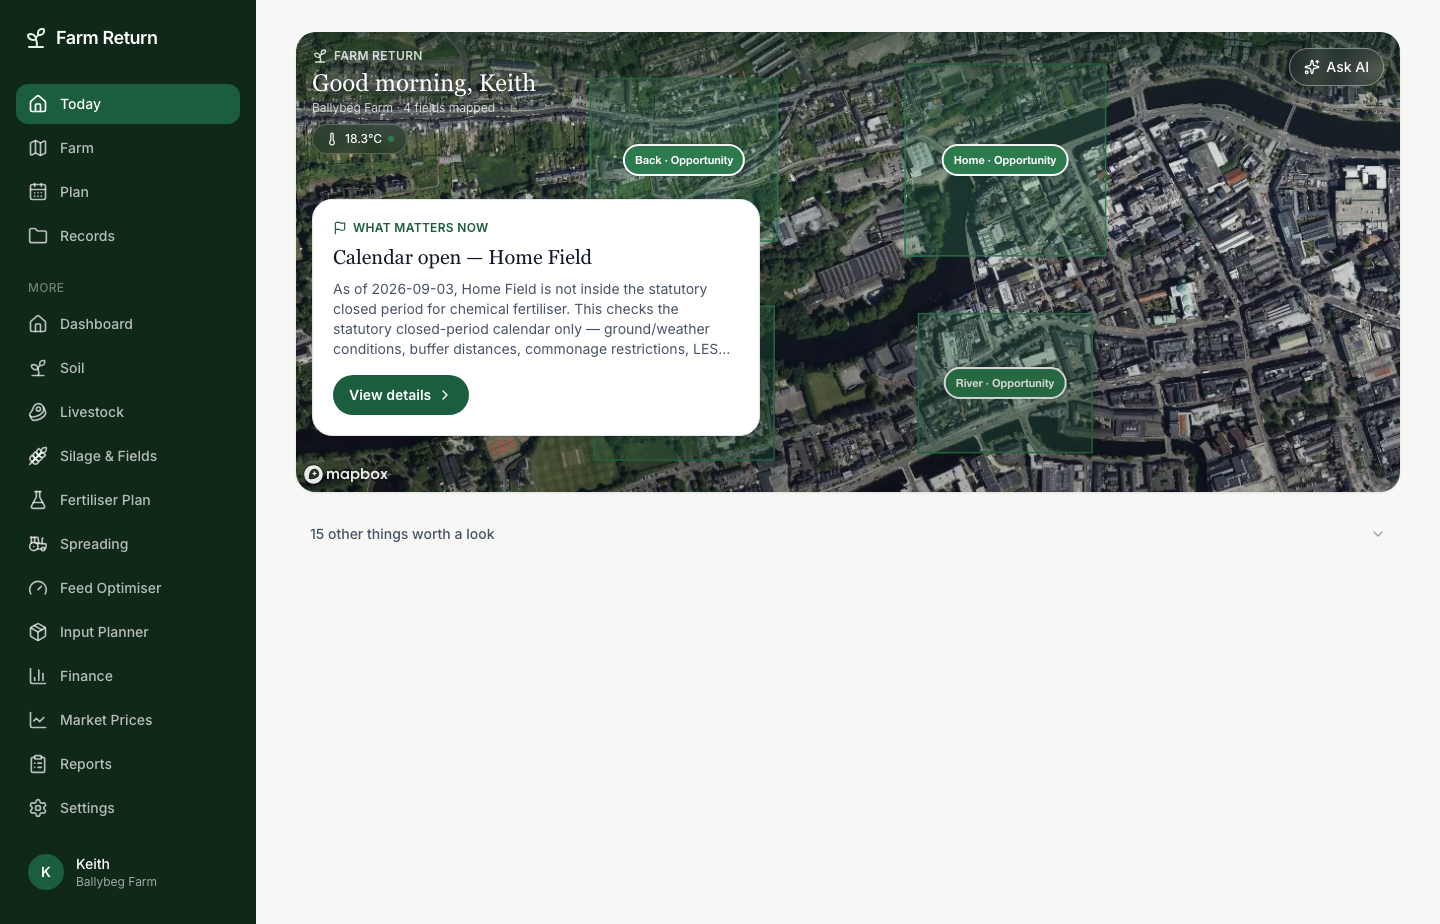
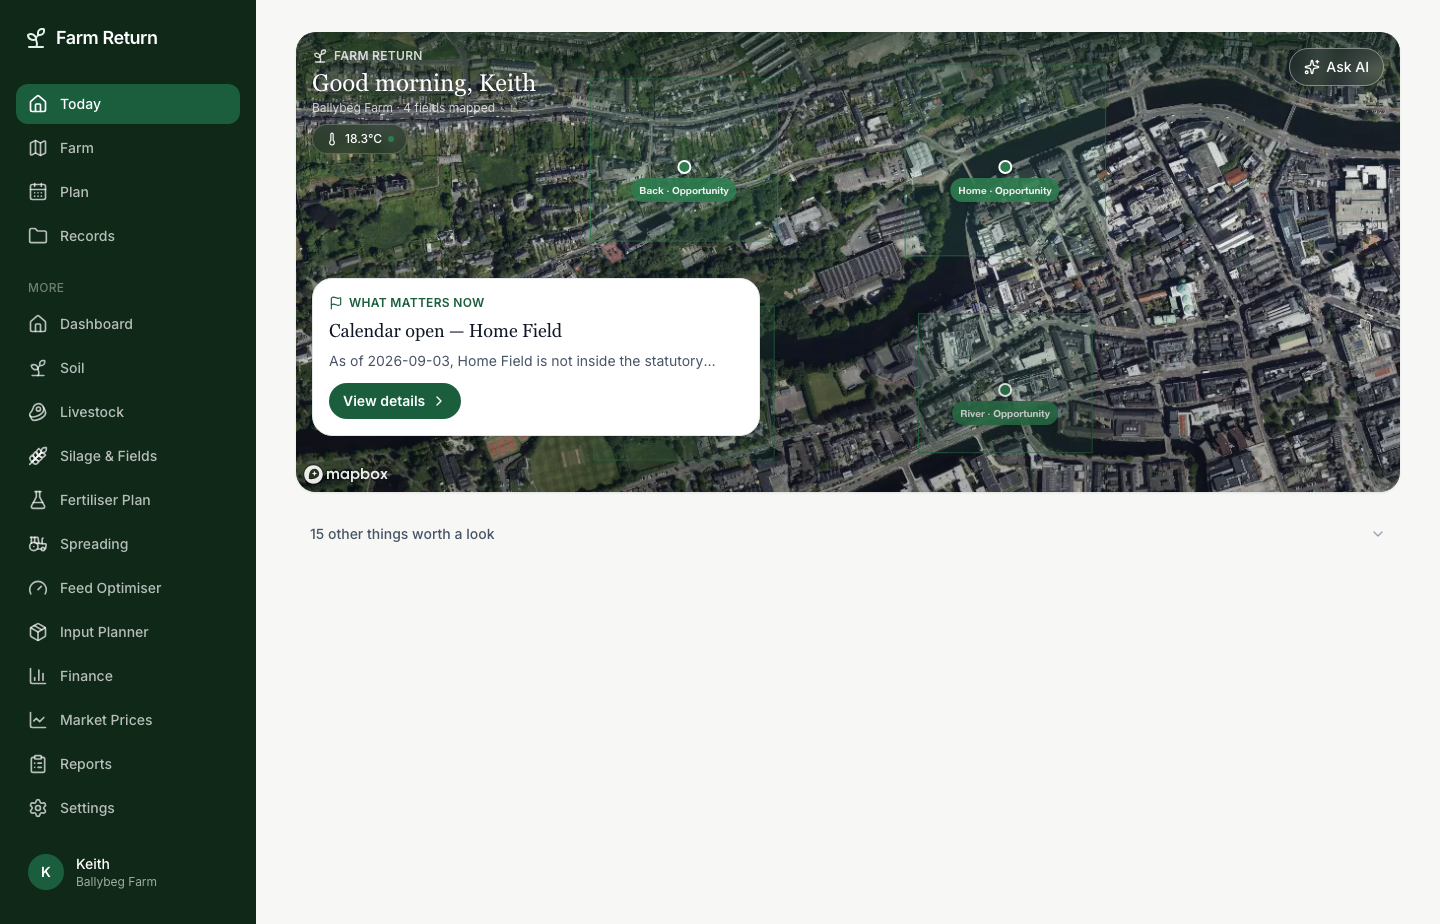
Phase V1 round 6: real pin markers, subordinate boundaries, compact card
Codex visual audit round 5 (fidelity 6.2/10, still REDESIGN REQUIRED,
dashboard drift MEDIUM — but the "dark and tactical" finding is gone,
confirming round 5's light-card fix worked):

- High: "bordered polygon rectangles and compact text pills read like
  GIS annotations rather than identifiable places." Markers are now a
  real pin — a small colour-coded dot at the exact centroid with the
  name/status as a caption below it — and field-boundary fill/line
  opacity dropped substantially (0.28→0.14 fill, thinner/fainter line
  unless selected) so boundaries are visually subordinate to the pins
  now carrying the actual place/status information.
- Medium: the light card was "excessively tall," and every line-clamp
  length tried so far still visibly truncated real regulatory copy
  mid-phrase. Cut to one concise line in the light variant (tighter
  padding, smaller title) — short and clean beats long and cut off; the
  full text is one tap away in the real Expanded Prompt sheet.

Not fixed (accepted, out of scope for a visual rebuild): "the aerial
imagery presents an urban residential landscape" — this farm's mock
fixture (`src/data/mock-farm.ts`) sits in central Cork, not open
farmland; a visual-only rebuild cannot honestly relocate a farm's real
(if illustrative) coordinates just to make a screenshot prettier.

Quality gate (test/typecheck/lint/build) green: 116 files / 1509 tests
passing.

Claude-Session: https://claude.ai/code/session_017cs1M5kSyWgGzWDkWLoi48

diff --git a/src/components/farm/MapHero.tsx b/src/components/farm/MapHero.tsx
@@ -160,7 +160,10 @@ export function MapHero({
             ...Object.entries(toneColor).flatMap(([tone, color]) => [tone, color]),
             "#ffffff",
           ],
-          "fill-opacity": 0.28,
+          // Codex audit round 5 (Phase V1): boundaries should be visually
+          // subordinate to the pin markers now carrying the real place/
+          // status information — a faint tint rather than a strong fill.
+          "fill-opacity": 0.14,
         },
       });
       map.addLayer({
@@ -168,19 +171,14 @@ export function MapHero({
         type: "line",
         source: "fr-fields",
         paint: {
-          // Codex audit round 4 (Phase V1): a solid white 2px outline
-          // read as a "GIS overlay" rather than a highlighted place —
-          // the boundary now glows in its own real status colour (same
-          // match expression as the fill) instead of a technical white
-          // line, thinner unless selected.
           "line-color": [
             "match",
             ["get", "tone"],
             ...Object.entries(toneColor).flatMap(([tone, color]) => [tone, color]),
             "#ffffff",
           ],
-          "line-width": ["case", ["==", ["get", "fieldId"], selectedFieldId ?? ""], 3, 1.5],
-          "line-opacity": 0.9,
+          "line-width": ["case", ["==", ["get", "fieldId"], selectedFieldId ?? ""], 2.5, 1],
+          "line-opacity": ["case", ["==", ["get", "fieldId"], selectedFieldId ?? ""], 0.9, 0.55],
         },
       });
       if (onSelectFieldRef.current) {
@@ -214,29 +212,47 @@ export function MapHero({
     const map = mapRef.current;
     if (!map) return;
     markersRef.current.forEach((m) => m.remove());
+    const toneBg: Record<MapTone, string> = {
+      good: "#2E7D4F",
+      attention: "#D98324",
+      risk: "#C0362C",
+      info: "#2563AC",
+      neutral: "#667085",
+      silage: "#8BA23A",
+    };
     markersRef.current = mappedFields.map((field) => {
       const tone = getTone(field);
+      const selected = field.id === selectedFieldId;
+      const statusLabel = getStatusLabel?.(field);
+      const shortName = field.name.replace(" Field", "");
+
+      // Codex audit round 5 (Phase V1): a full-width text pill sitting on
+      // the boundary read as "a GIS annotation," not "a place." A real
+      // map pin instead — a small colour-coded dot at the exact
+      // centroid, with the name/status as a much smaller caption below
+      // it, closer to how every reference image marks a place.
       const el = document.createElement("button");
       el.type = "button";
-      el.setAttribute("aria-label", field.name);
-      const selected = field.id === selectedFieldId;
-      el.className = cn(
-        "flex items-center gap-1.5 rounded-full border-2 border-white px-2.5 py-1 text-[11px] font-semibold text-white shadow-md transition-transform",
-        selected ? "scale-110" : "",
+      el.setAttribute("aria-label", statusLabel ? `${field.name} — ${statusLabel}` : field.name);
+      el.className = "flex flex-col items-center gap-1 transition-transform";
+      if (selected) el.style.transform = "scale(1.1)";
+
+      const dot = document.createElement("span");
+      dot.className = "block size-3.5 rounded-full border-2 border-white shadow-md";
+      dot.style.backgroundColor = toneBg[tone];
+      el.appendChild(dot);
+
+      const caption = document.createElement("span");
+      caption.className = cn(
+        "rounded-full px-2 py-0.5 text-[10px] font-semibold text-white shadow-sm",
+        selected ? "opacity-100" : "opacity-90",
       );
-      const toneBg: Record<MapTone, string> = {
-        good: "#2E7D4F",
-        attention: "#D98324",
-        risk: "#C0362C",
-        info: "#2563AC",
-        neutral: "#667085",
-        silage: "#8BA23A",
-      };
-      el.style.backgroundColor = toneBg[tone];
-      const statusLabel = getStatusLabel?.(field);
-      el.textContent = statusLabel ? `${field.name.replace(" Field", "")} · ${statusLabel}` : field.name.replace(" Field", "");
+      caption.style.backgroundColor = toneBg[tone];
+      caption.textContent = statusLabel ? `${shortName} · ${statusLabel}` : shortName;
+      el.appendChild(caption);
+
       if (onSelectField) el.addEventListener("click", () => onSelectField(field.id));
-      return new mapboxgl.Marker({ element: el, anchor: "center" }).setLngLat(field.centroid).addTo(map);
+      return new mapboxgl.Marker({ element: el, anchor: "top" }).setLngLat(field.centroid).addTo(map);
     });
     // eslint-disable-next-line react-hooks/exhaustive-deps -- getTone/onSelectField are inline closures from the caller; re-running per render (rather than gating on a stable identity) is the correct behaviour here, not a bug — it's what keeps a Prompt-driven tone change reflected immediately.
   }, [fields, selectedFieldId]);

diff --git a/src/components/next/PromptCard.tsx b/src/components/next/PromptCard.tsx
@@ -42,30 +42,36 @@ export function PromptCard({
   return (
     <div
       className={cn(
-        "relative overflow-hidden rounded-fr-card border p-5 shadow-fr-card",
-        light ? "border-fr-border bg-fr-surface text-fr-ink-900" : "border-fr-green-700/15 bg-fr-green-900 text-white",
+        "relative overflow-hidden rounded-fr-card border shadow-fr-card",
+        light ? "border-fr-border bg-fr-surface p-4 text-fr-ink-900" : "border-fr-green-700/15 bg-fr-green-900 p-5 text-white",
         className,
       )}
     >
       <span
         className={cn(
-          "mb-2 flex items-center gap-1.5 text-xs font-semibold uppercase tracking-wide",
+          "mb-1.5 flex items-center gap-1.5 text-xs font-semibold uppercase tracking-wide",
           light ? "text-fr-green-700" : "text-fr-green-100",
         )}
       >
         <Flag className="size-3.5" />
         What matters now
       </span>
-      <p className={cn("font-display text-xl leading-snug", light ? "text-fr-ink-900" : "text-white")}>{prompt.title}</p>
-      <p className={cn("mt-2 text-sm", light ? "line-clamp-4 text-fr-ink-600" : "line-clamp-3 text-white/70")}>
+      <p className={cn("font-display leading-snug", light ? "text-lg text-fr-ink-900" : "text-xl text-white")}>{prompt.title}</p>
+      {/* Codex audit round 5 (Phase V1): a taller multi-line description
+          made this overlay card "excessively tall," and any clamp still
+          visibly truncated real regulatory copy mid-phrase regardless of
+          length. Light variant keeps it to one concise line — short and
+          clean rather than long and cut off — full text is one tap away
+          in the real Expanded Prompt sheet ("View details" below). */}
+      <p className={cn("mt-1.5 text-sm", light ? "line-clamp-1 text-fr-ink-600" : "line-clamp-3 text-white/70")}>
         {prompt.description}
       </p>
       <button
         type="button"
         onClick={onViewDetails}
         className={cn(
-          "mt-4 inline-flex items-center gap-1.5 rounded-full px-4 py-2.5 text-sm font-semibold",
-          light ? "bg-fr-green-700 text-white" : "bg-fr-green-100 text-fr-green-900",
+          "inline-flex items-center gap-1.5 rounded-full text-sm font-semibold",
+          light ? "mt-3 bg-fr-green-700 px-3.5 py-2 text-white" : "mt-4 bg-fr-green-100 px-4 py-2.5 text-fr-green-900",
         )}
       >
         View details
